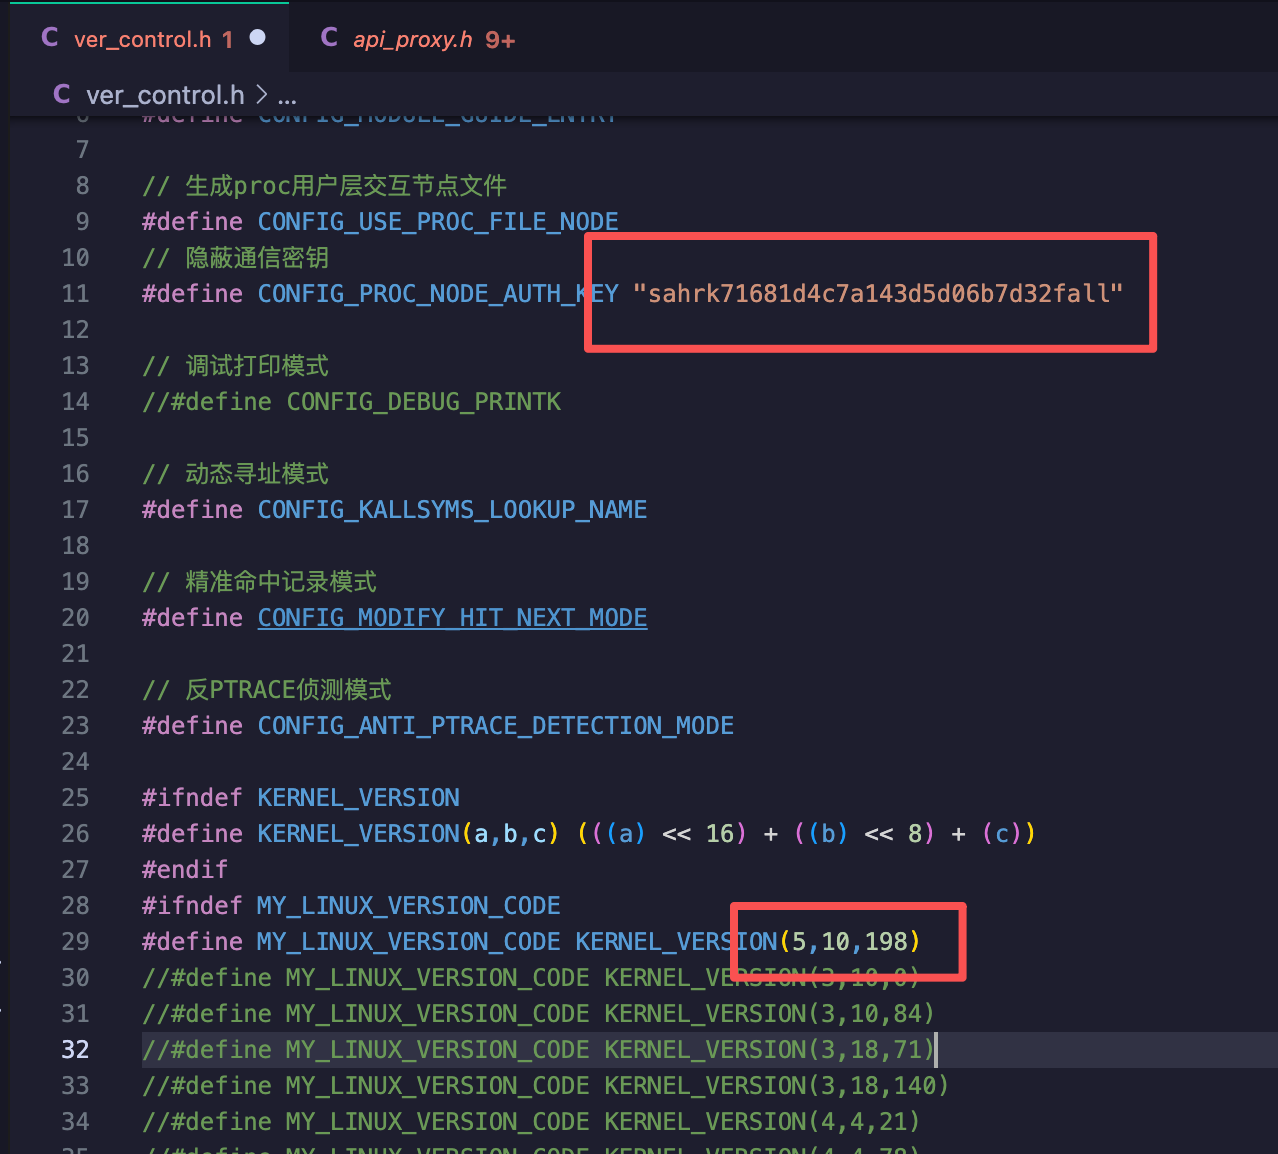
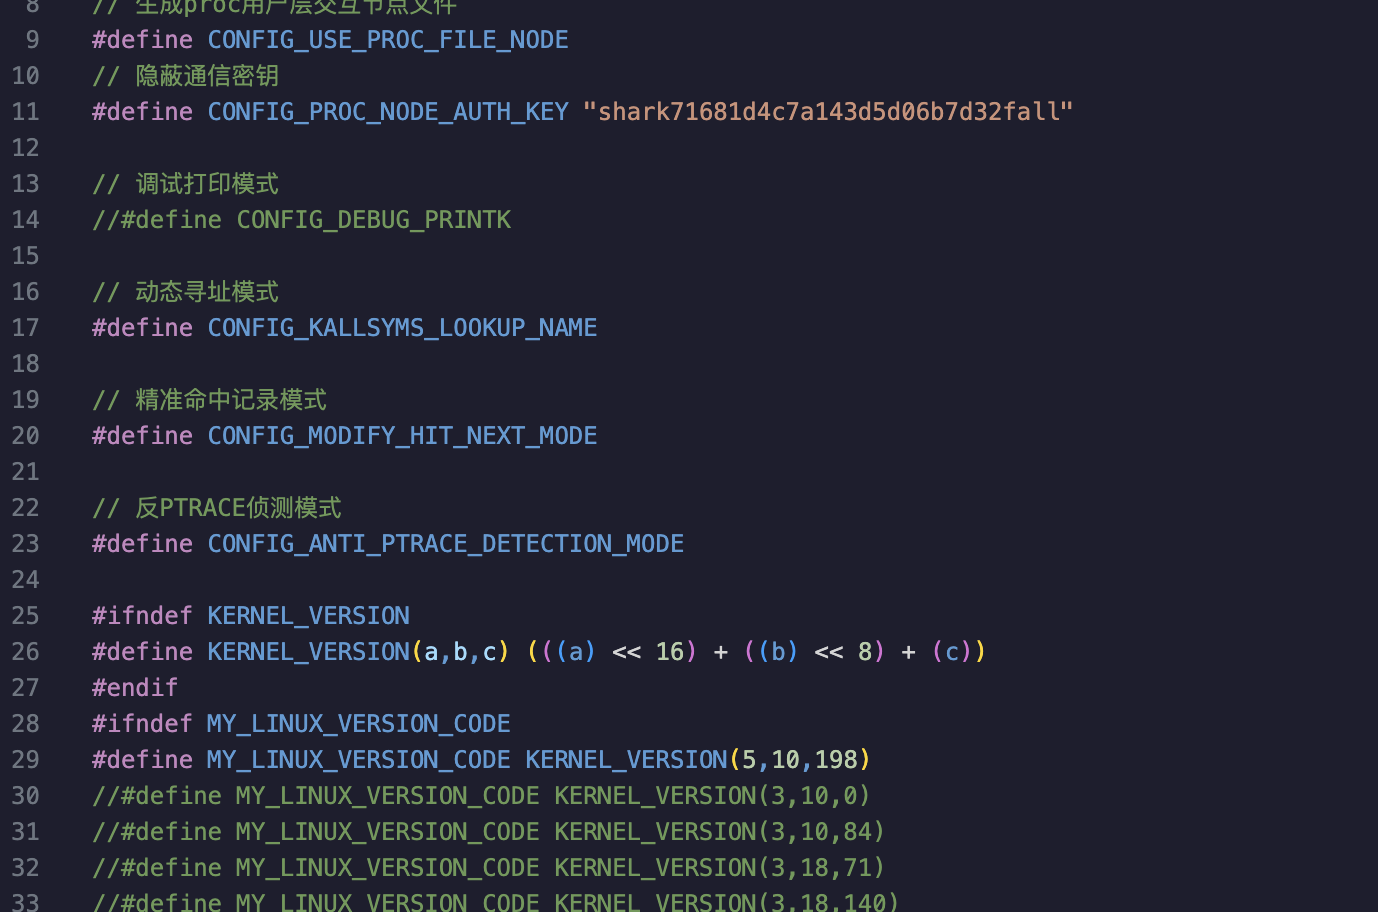
> Auto: Update

diff --git a/categories/kernel-diy/index.html b/categories/kernel-diy/index.html
@@ -538,7 +538,7 @@
   <div class="flex flex-row flex-wrap items-center">
     
     
-      <time datetime="2026-05-24T00:00:00&#43;00:00">May 24, 2026</time><span class="px-2 text-primary-500">&middot;</span><span>1289 words</span><span class="px-2 text-primary-500">&middot;</span><span title="Reading time">7 mins</span>
+      <time datetime="2026-05-24T00:00:00&#43;00:00">May 24, 2026</time><span class="px-2 text-primary-500">&middot;</span><span>1281 words</span><span class="px-2 text-primary-500">&middot;</span><span title="Reading time">7 mins</span>
     
 
     

diff --git a/posts/index.html b/posts/index.html
@@ -557,7 +557,7 @@
   <div class="flex flex-row flex-wrap items-center">
     
     
-      <time datetime="2026-05-24T00:00:00&#43;00:00">May 24, 2026</time><span class="px-2 text-primary-500">&middot;</span><span>1289 words</span><span class="px-2 text-primary-500">&middot;</span><span title="Reading time">7 mins</span>
+      <time datetime="2026-05-24T00:00:00&#43;00:00">May 24, 2026</time><span class="px-2 text-primary-500">&middot;</span><span>1281 words</span><span class="px-2 text-primary-500">&middot;</span><span title="Reading time">7 mins</span>
     
 
     

diff --git a/tags/arm64-mac-compile-kernel/index.html b/tags/arm64-mac-compile-kernel/index.html
@@ -538,7 +538,7 @@
   <div class="flex flex-row flex-wrap items-center">
     
     
-      <time datetime="2026-05-24T00:00:00&#43;00:00">May 24, 2026</time><span class="px-2 text-primary-500">&middot;</span><span>1289 words</span><span class="px-2 text-primary-500">&middot;</span><span title="Reading time">7 mins</span>
+      <time datetime="2026-05-24T00:00:00&#43;00:00">May 24, 2026</time><span class="px-2 text-primary-500">&middot;</span><span>1281 words</span><span class="px-2 text-primary-500">&middot;</span><span title="Reading time">7 mins</span>
     
 
     

diff --git a/tags/kernel/index.html b/tags/kernel/index.html
@@ -538,7 +538,7 @@
   <div class="flex flex-row flex-wrap items-center">
     
     
-      <time datetime="2026-05-24T00:00:00&#43;00:00">May 24, 2026</time><span class="px-2 text-primary-500">&middot;</span><span>1289 words</span><span class="px-2 text-primary-500">&middot;</span><span title="Reading time">7 mins</span>
+      <time datetime="2026-05-24T00:00:00&#43;00:00">May 24, 2026</time><span class="px-2 text-primary-500">&middot;</span><span>1281 words</span><span class="px-2 text-primary-500">&middot;</span><span title="Reading time">7 mins</span>
     
 
     

diff --git a/tags/pixel-6/index.html b/tags/pixel-6/index.html
@@ -538,7 +538,7 @@
   <div class="flex flex-row flex-wrap items-center">
     
     
-      <time datetime="2026-05-24T00:00:00&#43;00:00">May 24, 2026</time><span class="px-2 text-primary-500">&middot;</span><span>1289 words</span><span class="px-2 text-primary-500">&middot;</span><span title="Reading time">7 mins</span>
+      <time datetime="2026-05-24T00:00:00&#43;00:00">May 24, 2026</time><span class="px-2 text-primary-500">&middot;</span><span>1281 words</span><span class="px-2 text-primary-500">&middot;</span><span title="Reading time">7 mins</span>
     
 
     
